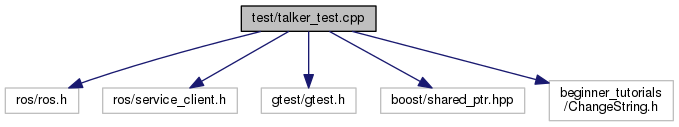
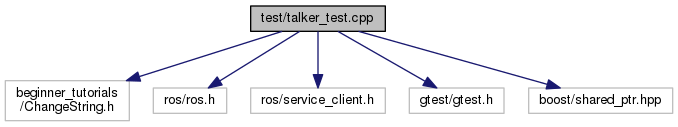
move service call function inside a while loop to make sure the respond has been sent.

diff --git a/html/cpplint_8txt.html b/html/cpplint_8txt.html
@@ -82,10 +82,45 @@ var searchBox = new SearchBox("searchBox", "search",false,'Search');
 
 </div><!-- top -->
 <div class="header">
+  <div class="summary">
+<a href="#var-members">Variables</a>  </div>
   <div class="headertitle">
 <div class="title">cpplint.txt File Reference</div>  </div>
 </div><!--header-->
 <div class="contents">
+<table class="memberdecls">
+<tr class="heading"><td colspan="2"><h2 class="groupheader"><a name="var-members"></a>
+Variables</h2></td></tr>
+<tr class="memitem:a3d26b1b77481d7e368bb223610de8603"><td class="memItemLeft" align="right" valign="top">yuyuhsueh yuyuhsueh Lenovo&#160;</td><td class="memItemRight" valign="bottom"><a class="el" href="cpplint_8txt.html#a3d26b1b77481d7e368bb223610de8603">ideapad</a></td></tr>
+<tr class="separator:a3d26b1b77481d7e368bb223610de8603"><td class="memSeparator" colspan="2">&#160;</td></tr>
+<tr class="memitem:a127844d2149371fa36c108b950beca56"><td class="memItemLeft" align="right" valign="top">yuyuhsueh yuyuhsueh Lenovo make const or use a&#160;</td><td class="memItemRight" valign="bottom"><a class="el" href="cpplint_8txt.html#a127844d2149371fa36c108b950beca56">pointer</a></td></tr>
+<tr class="separator:a127844d2149371fa36c108b950beca56"><td class="memSeparator" colspan="2">&#160;</td></tr>
+</table>
+<h2 class="groupheader">Variable Documentation</h2>
+<a class="anchor" id="a3d26b1b77481d7e368bb223610de8603"></a>
+<div class="memitem">
+<div class="memproto">
+      <table class="memname">
+        <tr>
+          <td class="memname">yuyuhsueh yuyuhsueh Lenovo ideapad</td>
+        </tr>
+      </table>
+</div><div class="memdoc">
+
+</div>
+</div>
+<a class="anchor" id="a127844d2149371fa36c108b950beca56"></a>
+<div class="memitem">
+<div class="memproto">
+      <table class="memname">
+        <tr>
+          <td class="memname">yuyuhsueh yuyuhsueh Lenovo make const or use a pointer</td>
+        </tr>
+      </table>
+</div><div class="memdoc">
+
+</div>
+</div>
 </div><!-- contents -->
 <!-- start footer part -->
 <hr class="footer"/><address class="footer"><small>

diff --git a/html/globals.html b/html/globals.html
@@ -108,6 +108,9 @@ var searchBox = new SearchBox("searchBox", "search",false,'Search');
 <li>forms
 : <a class="el" href="license_8txt.html#a907462b7b3ae0a9072f23e05f66fb7f1">license.txt</a>
 </li>
+<li>ideapad
+: <a class="el" href="cpplint_8txt.html#a3d26b1b77481d7e368bb223610de8603">cpplint.txt</a>
+</li>
 <li>INCIDENTAL
 : <a class="el" href="license_8txt.html#a6fe13299500a9a6c4af4434723e6afae">license.txt</a>
 </li>
@@ -123,8 +126,8 @@ var searchBox = new SearchBox("searchBox", "search",false,'Search');
 <li>main()
 : <a class="el" href="change__string__client_8cpp.html#a3c04138a5bfe5d72780bb7e82a18e627">change_string_client.cpp</a>
 , <a class="el" href="listener_8cpp.html#a3c04138a5bfe5d72780bb7e82a18e627">listener.cpp</a>
-, <a class="el" href="talker__test_8cpp.html#a3c04138a5bfe5d72780bb7e82a18e627">talker_test.cpp</a>
 , <a class="el" href="talker_8cpp.html#a3c04138a5bfe5d72780bb7e82a18e627">talker.cpp</a>
+, <a class="el" href="talker__test_8cpp.html#a3c04138a5bfe5d72780bb7e82a18e627">talker_test.cpp</a>
 </li>
 <li>met
 : <a class="el" href="license_8txt.html#ac8582a50364a60dd4d7d7d24f725c413">license.txt</a>
@@ -137,6 +140,9 @@ var searchBox = new SearchBox("searchBox", "search",false,'Search');
 </li>
 <li>notice
 : <a class="el" href="license_8txt.html#af4bbea5cb99610e4ef2a43c12b41e9c9">license.txt</a>
+</li>
+<li>pointer
+: <a class="el" href="cpplint_8txt.html#a127844d2149371fa36c108b950beca56">cpplint.txt</a>
 </li>
 <li>SPECIAL
 : <a class="el" href="license_8txt.html#a910ad17f295c48bc77c8ee2434bf4ac5">license.txt</a>

diff --git a/html/talker__test_8cpp.html b/html/talker__test_8cpp.html
@@ -96,15 +96,17 @@ var searchBox = new SearchBox("searchBox", "search",false,'Search');
 
 <p>Integration test on service/client nodes.  
 <a href="#details">More...</a></p>
-<div class="textblock"><code>#include &lt;ros/ros.h&gt;</code><br />
+<div class="textblock"><code>#include &lt;beginner_tutorials/ChangeString.h&gt;</code><br />
+<code>#include &lt;ros/ros.h&gt;</code><br />
 <code>#include &lt;ros/service_client.h&gt;</code><br />
 <code>#include &lt;gtest/gtest.h&gt;</code><br />
 <code>#include &lt;boost/shared_ptr.hpp&gt;</code><br />
-<code>#include &lt;beginner_tutorials/ChangeString.h&gt;</code><br />
 </div><div class="textblock"><div class="dynheader">
 Include dependency graph for talker_test.cpp:</div>
 <div class="dyncontent">
 <div class="center"><img src="talker__test_8cpp__incl.png" border="0" usemap="#test_2talker__test_8cpp" alt=""/></div>
+<map name="test_2talker__test_8cpp" id="test_2talker__test_8cpp">
+</map>
 </div>
 </div><table class="memberdecls">
 <tr class="heading"><td colspan="2"><h2 class="groupheader"><a name="func-members"></a>
@@ -172,6 +174,7 @@ Variables</h2></td></tr>
       </table>
 </div><div class="memdoc">
 <p>Testing case confirming that the messages passed between service and client are same. </p>
+<p>wait for the service to be called</p>
 
 </div>
 </div>

diff --git a/html/globals_vars.html b/html/globals_vars.html
@@ -102,6 +102,9 @@ var searchBox = new SearchBox("searchBox", "search",false,'Search');
 <li>forms
 : <a class="el" href="license_8txt.html#a907462b7b3ae0a9072f23e05f66fb7f1">license.txt</a>
 </li>
+<li>ideapad
+: <a class="el" href="cpplint_8txt.html#a3d26b1b77481d7e368bb223610de8603">cpplint.txt</a>
+</li>
 <li>INCIDENTAL
 : <a class="el" href="license_8txt.html#a6fe13299500a9a6c4af4434723e6afae">license.txt</a>
 </li>
@@ -125,6 +128,9 @@ var searchBox = new SearchBox("searchBox", "search",false,'Search');
 </li>
 <li>notice
 : <a class="el" href="license_8txt.html#af4bbea5cb99610e4ef2a43c12b41e9c9">license.txt</a>
+</li>
+<li>pointer
+: <a class="el" href="cpplint_8txt.html#a127844d2149371fa36c108b950beca56">cpplint.txt</a>
 </li>
 <li>SPECIAL
 : <a class="el" href="license_8txt.html#a910ad17f295c48bc77c8ee2434bf4ac5">license.txt</a>

diff --git a/html/search/all_d.js b/html/search/all_d.js
@@ -5,6 +5,7 @@ var searchData=
   ['passcuststr',['passCustStr',['../classpassCustStr.html',1,'']]],
   ['passcuststr_2ecpp',['passCustStr.cpp',['../passCustStr_8cpp.html',1,'']]],
   ['passcuststr_2ehpp',['passCustStr.hpp',['../passCustStr_8hpp.html',1,'']]],
+  ['pointer',['pointer',['../cpplint_8txt.html#a127844d2149371fa36c108b950beca56',1,'cpplint.txt']]],
   ['pp_5fstack',['pp_stack',['../classcpplint_1_1NestingState.html#a3a5ca37e3066d91830ea1faa8feae4e5',1,'cpplint::NestingState']]],
   ['previous_5fstack_5ftop',['previous_stack_top',['../classcpplint_1_1NestingState.html#a7aa34c8fb8df73d76f702c7012c46911',1,'cpplint::NestingState']]],
   ['printcategories',['PrintCategories',['../namespacecpplint.html#a3b1a047aa772a0d7d049d29c8ee62aba',1,'cpplint']]],

diff --git a/html/search/variables_5.js b/html/search/variables_5.js
@@ -1,5 +1,6 @@
 var searchData=
 [
+  ['ideapad',['ideapad',['../cpplint_8txt.html#a3d26b1b77481d7e368bb223610de8603',1,'cpplint.txt']]],
   ['in_5fa_5ffunction',['in_a_function',['../classcpplint_1_1__FunctionState.html#a8362d472591f60462184bf68b49c0efb',1,'cpplint::_FunctionState']]],
   ['incidental',['INCIDENTAL',['../license_8txt.html#a6fe13299500a9a6c4af4434723e6afae',1,'license.txt']]],
   ['include_5flist',['include_list',['../classcpplint_1_1__IncludeState.html#a82d8b92a431437ee181e950517c71cbb',1,'cpplint::_IncludeState']]],

diff --git a/html/search/all_8.js b/html/search/all_8.js
@@ -1,5 +1,6 @@
 var searchData=
 [
+  ['ideapad',['ideapad',['../cpplint_8txt.html#a3d26b1b77481d7e368bb223610de8603',1,'cpplint.txt']]],
   ['in_5fa_5ffunction',['in_a_function',['../classcpplint_1_1__FunctionState.html#a8362d472591f60462184bf68b49c0efb',1,'cpplint::_FunctionState']]],
   ['inasmblock',['InAsmBlock',['../classcpplint_1_1NestingState.html#aa35a529052e4863a477eae649ce778d2',1,'cpplint::NestingState']]],
   ['incidental',['INCIDENTAL',['../license_8txt.html#a6fe13299500a9a6c4af4434723e6afae',1,'license.txt']]],

diff --git a/html/search/variables_a.js b/html/search/variables_a.js
@@ -1,5 +1,6 @@
 var searchData=
 [
+  ['pointer',['pointer',['../cpplint_8txt.html#a127844d2149371fa36c108b950beca56',1,'cpplint.txt']]],
   ['pp_5fstack',['pp_stack',['../classcpplint_1_1NestingState.html#a3a5ca37e3066d91830ea1faa8feae4e5',1,'cpplint::NestingState']]],
   ['previous_5fstack_5ftop',['previous_stack_top',['../classcpplint_1_1NestingState.html#a7aa34c8fb8df73d76f702c7012c46911',1,'cpplint::NestingState']]]
 ];

diff --git a/latex/cpplint_8txt.tex b/latex/cpplint_8txt.tex
@@ -1,2 +1,18 @@
 \hypertarget{cpplint_8txt}{}\section{cpplint.\+txt File Reference}
 \label{cpplint_8txt}\index{cpplint.\+txt@{cpplint.\+txt}}
+\subsection*{Variables}
+\begin{DoxyCompactItemize}
+\item 
+yuyuhsueh yuyuhsueh Lenovo \hyperlink{cpplint_8txt_a3d26b1b77481d7e368bb223610de8603}{ideapad}
+\item 
+yuyuhsueh yuyuhsueh Lenovo make const or use a \hyperlink{cpplint_8txt_a127844d2149371fa36c108b950beca56}{pointer}
+\end{DoxyCompactItemize}
+
+
+\subsection{Variable Documentation}
+\index{cpplint.\+txt@{cpplint.\+txt}!ideapad@{ideapad}}
+\index{ideapad@{ideapad}!cpplint.\+txt@{cpplint.\+txt}}
+\subsubsection[{\texorpdfstring{ideapad}{ideapad}}]{\setlength{\rightskip}{0pt plus 5cm}yuyuhsueh yuyuhsueh Lenovo ideapad}\hypertarget{cpplint_8txt_a3d26b1b77481d7e368bb223610de8603}{}\label{cpplint_8txt_a3d26b1b77481d7e368bb223610de8603}
+\index{cpplint.\+txt@{cpplint.\+txt}!pointer@{pointer}}
+\index{pointer@{pointer}!cpplint.\+txt@{cpplint.\+txt}}
+\subsubsection[{\texorpdfstring{pointer}{pointer}}]{\setlength{\rightskip}{0pt plus 5cm}yuyuhsueh yuyuhsueh Lenovo make const or use a pointer}\hypertarget{cpplint_8txt_a127844d2149371fa36c108b950beca56}{}\label{cpplint_8txt_a127844d2149371fa36c108b950beca56}

diff --git a/latex/talker__test_8cpp.tex b/latex/talker__test_8cpp.tex
@@ -5,12 +5,13 @@
 Integration test on service/client nodes.  
 
 
+{\ttfamily \#include $<$beginner\+\_\+tutorials/\+Change\+String.\+h$>$}\\*
 {\ttfamily \#include $<$ros/ros.\+h$>$}\\*
 {\ttfamily \#include $<$ros/service\+\_\+client.\+h$>$}\\*
 {\ttfamily \#include $<$gtest/gtest.\+h$>$}\\*
 {\ttfamily \#include $<$boost/shared\+\_\+ptr.\+hpp$>$}\\*
-{\ttfamily \#include $<$beginner\+\_\+tutorials/\+Change\+String.\+h$>$}\\*
-Include dependency graph for talker\+\_\+test.\+cpp\+:\nopagebreak
+Include dependency graph for talker\+\_\+test.\+cpp\+:
+\nopagebreak
 \begin{figure}[H]
 \begin{center}
 \leavevmode
@@ -53,7 +54,7 @@ Integration test on service/client nodes.
 \item[{must\+\_\+pass}]{}
 \end{DoxyParamCaption}
 )}\hypertarget{talker__test_8cpp_a7a537813174a11ea82f0278f88082025}{}\label{talker__test_8cpp_a7a537813174a11ea82f0278f88082025}
-Testing case confirming that the messages passed between service and client are same. 
+Testing case confirming that the messages passed between service and client are same. wait for the service to be called
 
 \subsection{Variable Documentation}
 \index{talker\+\_\+test.\+cpp@{talker\+\_\+test.\+cpp}!nh@{nh}}

diff --git a/test/talker_test.cpp b/test/talker_test.cpp
@@ -41,8 +41,7 @@ std::shared_ptr<ros::NodeHandle> nh;
  */
 
 
-TEST(TESTSuite, must_pass)
-{ 
+TEST(TESTSuite, must_pass) {
   ros::ServiceClient client = nh->serviceClient< beginner_tutorials::ChangeString
   > ("change_string");
   bool exists(client.waitForExistence(ros::Duration(1)));
@@ -50,10 +49,13 @@ TEST(TESTSuite, must_pass)
 
   beginner_tutorials::ChangeString srv;
   srv.request.input = "HELLO_WORLD";
-  client.call(srv);
 
-  //EXPECT_EQ(srv.request.input, srv.response.reply);
-  EXPECT_EQ(1,1);
+  /** 
+    * wait for the service to be called
+    */
+  while (!client.call(srv)) {}
+
+  EXPECT_EQ(srv.request.input, srv.response.reply);
 }
 
 int main(int argc, char **argv) {
